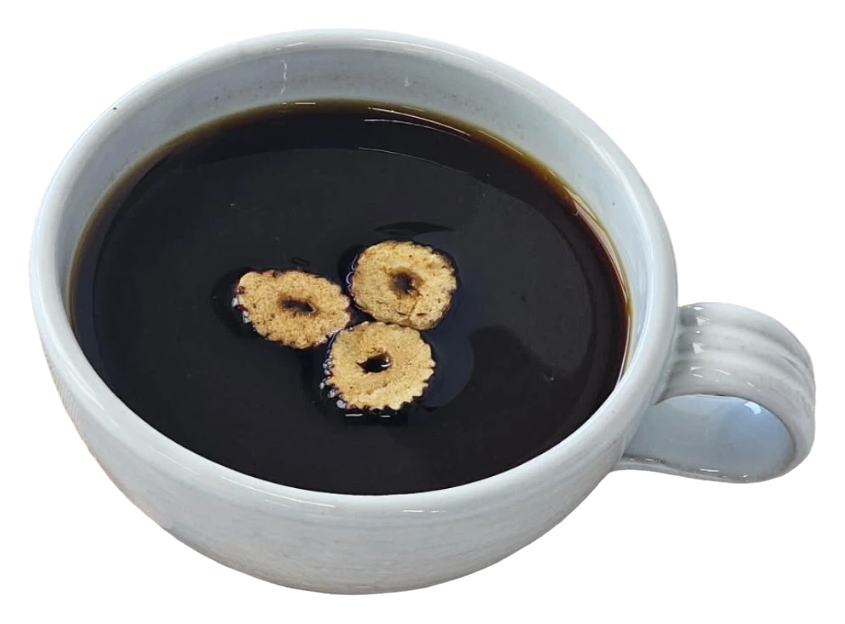
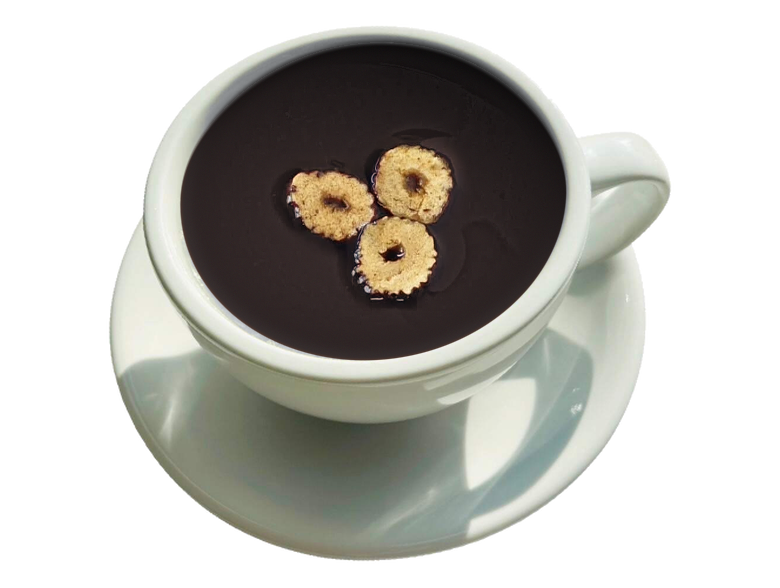
Swap in strawberry bingsu and new jujube tea photos, fix menu layout
- Replace mango bingsu photo with strawberry bingsu; layer it above the
  tiramisu platter so its left side isn't covered, and shrink it 5%
- Recrop the tea pot photo to a full circle
- Center "ice only" badges in Non-Coffee headings
- Move the cookie & ice cream photo right for more breathing room

diff --git a/gwanak-menu/styles/menu.css b/gwanak-menu/styles/menu.css
@@ -1067,6 +1067,7 @@ body {
 }
 
 .section-nonCoffee .item-heading {
+  align-items: center;
   gap: 6px;
   min-height: 19px;
   margin-right: 44px;
@@ -1418,11 +1419,11 @@ body {
 }
 
 .dessert-hero-ice {
-  left: 310px;
-  top: 92px;
-  width: 333px;
-  height: 229px;
-  z-index: 1;
+  left: 318px;
+  top: 98px;
+  width: 316px;
+  height: 218px;
+  z-index: 2;
 }
 
 .dessert-platter {
@@ -1597,7 +1598,7 @@ body {
 }
 
 .dessert-ice-cream {
-  left: 418px;
+  left: 455px;
   top: 871px;
   width: 225px;
   height: 152px;
